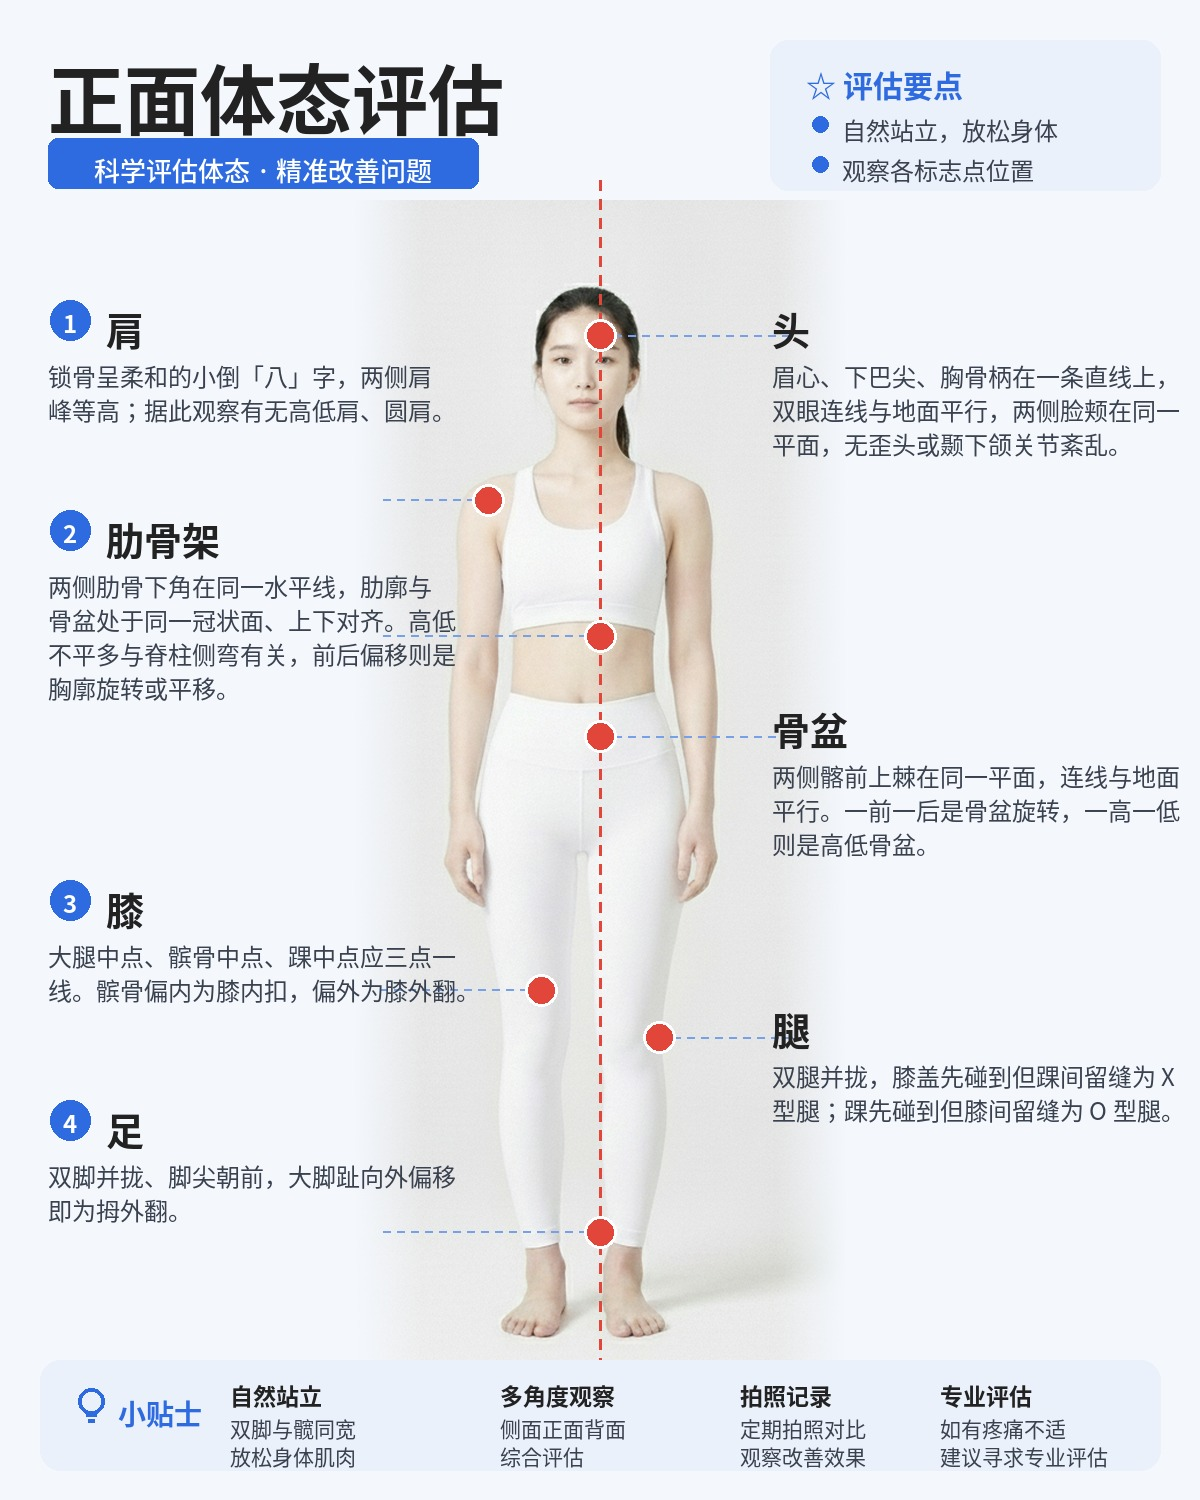
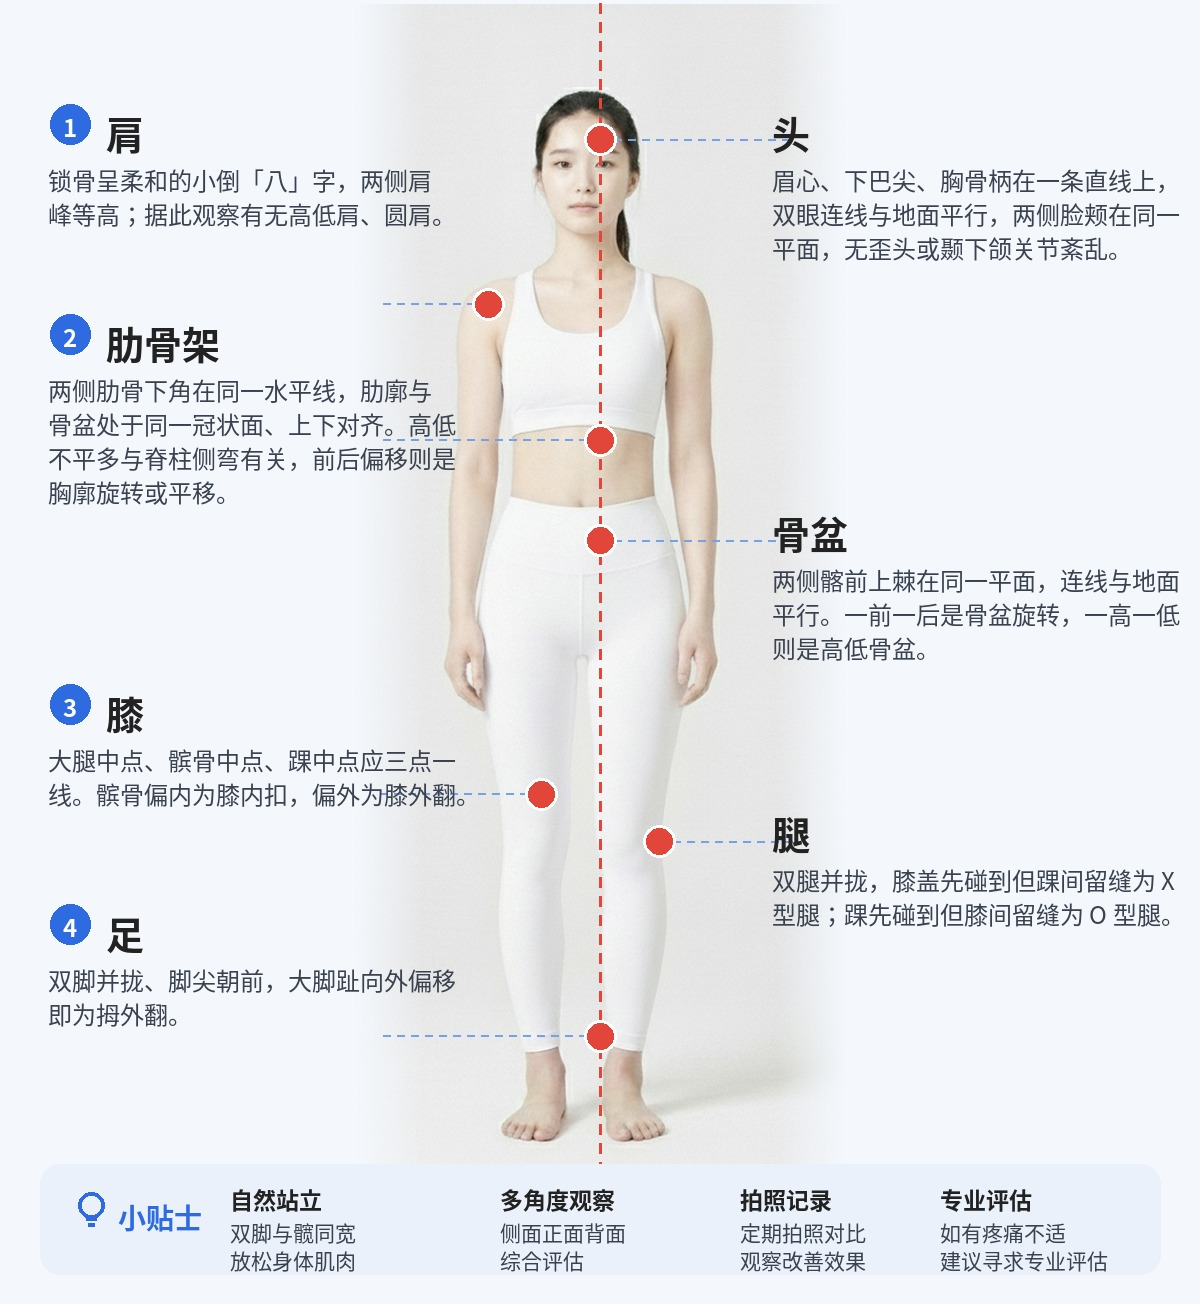
Drop title and eval-points header from posters

diff --git a/backend/tools/make_pose_posters.py b/backend/tools/make_pose_posters.py
@@ -49,7 +49,7 @@ def numcircle(d, c, n, r=20):
 
 # ---------- 通用海报骨架 ----------
 def build(view, photo_path, out_path, *, crop, dots, left_cards, right_cards,
-          title, eval_pts, center_line=True, align_pts=None):
+          title, eval_pts, center_line=True, align_pts=None, header=True):
     W,H = 1200,1500
     cv = Image.new("RGB",(W,H),BG)
     d = ImageDraw.Draw(cv)
@@ -91,20 +91,19 @@ def build(view, photo_path, out_path, *, crop, dots, left_cards, right_cards,
         for a,b in zip(pts,pts[1:]):
             dashed_line(d,a,b,(255,200,60),3,4,8)
 
-    # ---- 标题 ----
-    d.text((48,40), title[0], font=font(FB,76), fill=DARK)
-    tw=d.textlength(title[0],font=font(FB,76))
-    rounded(d,(48,138,48+430,138+50),10,BLUE)
-    sb=font(FM,26); w=d.textlength(title[1],font=sb)
-    d.text((48+215-w/2,150), title[1], font=sb, fill=(255,255,255))
+    # ---- 标题 + 评估要点框（header=False 时整块省略并裁掉顶部）----
+    if header:
+        d.text((48,40), title[0], font=font(FB,76), fill=DARK)
+        rounded(d,(48,138,48+430,138+50),10,BLUE)
+        sb=font(FM,26); w=d.textlength(title[1],font=sb)
+        d.text((48+215-w/2,150), title[1], font=sb, fill=(255,255,255))
 
-    # 评估要点框
-    rounded(d,(770,40,1160,190),18,CARD)
-    d.text((806,62), "☆ 评估要点", font=font(FB,30), fill=BLUE)
-    yy=116
-    for t in eval_pts:
-        d.ellipse([812,yy,828,yy+16],fill=BLUE)
-        d.text((842,yy-4), t, font=font(FR,24), fill=GREY); yy+=40
+        rounded(d,(770,40,1160,190),18,CARD)
+        d.text((806,62), "☆ 评估要点", font=font(FB,30), fill=BLUE)
+        yy=116
+        for t in eval_pts:
+            d.ellipse([812,yy,828,yy+16],fill=BLUE)
+            d.text((842,yy-4), t, font=font(FR,24), fill=GREY); yy+=40
 
     # ---- 标志点 + 连线 ----
     cvdots={k:to_cv(*v) for k,v in dots.items()}
@@ -150,6 +149,8 @@ def build(view, photo_path, out_path, *, crop, dots, left_cards, right_cards,
         d.text((x,1412), sub[0], font=font(FR,21), fill=GREY)
         d.text((x,1440), sub[1], font=font(FR,21), fill=GREY)
 
+    if not header:
+        cv = cv.crop((0, 196, W, H))
     cv.save(out_path, quality=92)
     print("saved", out_path)
 
@@ -190,6 +191,7 @@ if __name__ == "__main__":
         ],
         title=("正面体态评估","科学评估体态 · 精准改善问题"),
         eval_pts=["自然站立，放松身体","观察各标志点位置"],
+        header=False,
     )
 
     # ===== 侧面 =====
@@ -224,6 +226,7 @@ if __name__ == "__main__":
         ],
         title=("侧面体态评估","科学评估体态 · 精准改善问题"),
         eval_pts=["自然站立，放松身体","从侧面观察各标志点位置"],
+        header=False,
     )
 
     # ===== 背面 =====
@@ -253,4 +256,5 @@ if __name__ == "__main__":
         ],
         title=("背面体态评估","科学评估体态 · 精准改善问题"),
         eval_pts=["自然站立，放松身体","观察各标志点位置"],
+        header=False,
     )
